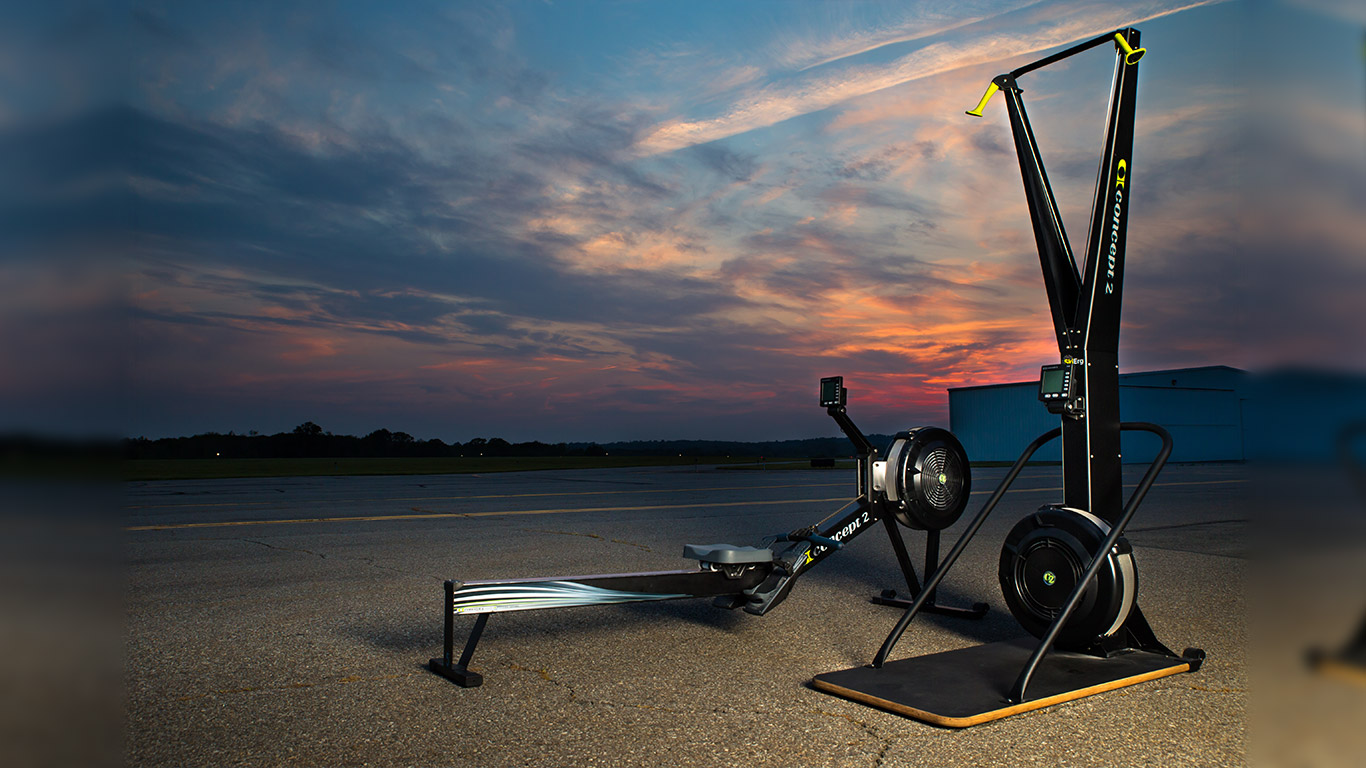
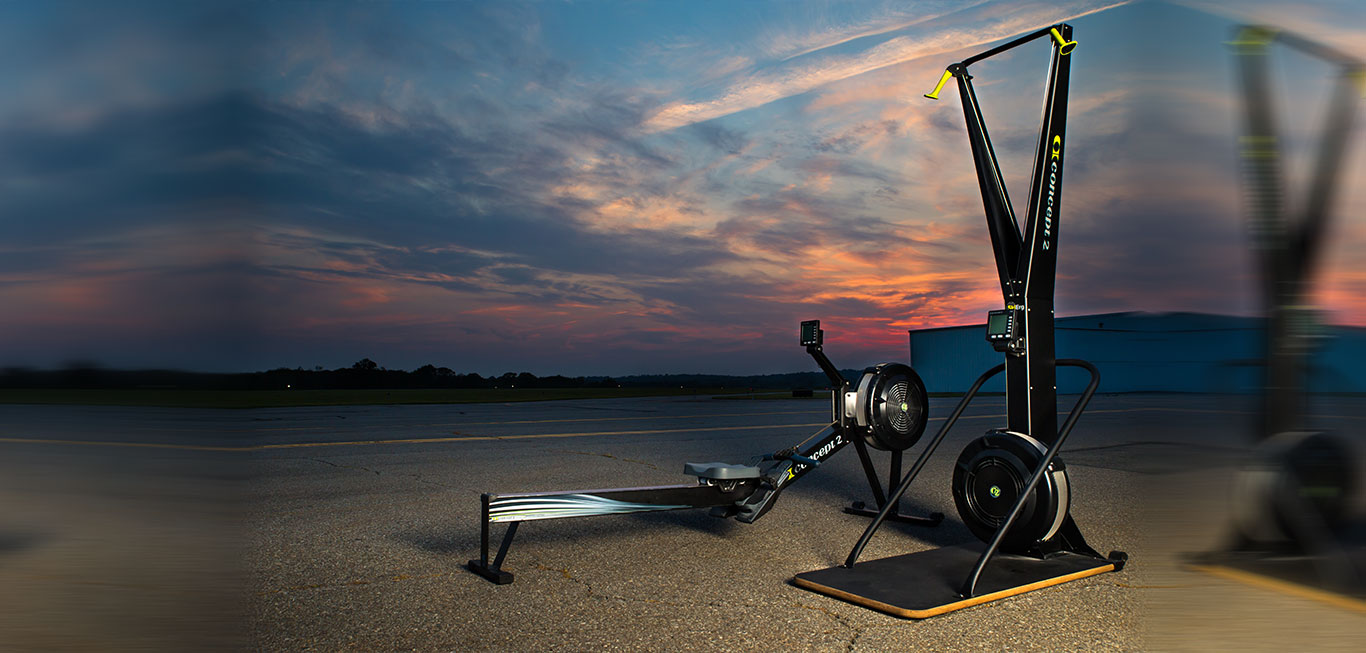
reformulando página produtos

diff --git a/app/templates/produtos.html b/app/templates/produtos.html
@@ -1,6 +1,7 @@
 <div class="container">
     <div class="row">
-        <div class="col-md-9 lista-caixa destaque-caixa">
+        <div class="col-md-9 ">
+            <div class="col-md-2">
                 <nav class="menu-produtos">
                 <ul class="nav nav-pills nav-stacked ">
                     <li class="menu remo"><a>REMO INDOOR</a></li>
@@ -16,25 +17,26 @@
                     <li class="menu"><a href="#">OUTROS</a></li>
                 </ul>
                 </nav>
-
+            </div>
+            <div class="col-md-7">
                     <img src="../static/img/produtos/modelod.jpg">
-
+            </div>
         </div>
-        <div class="col-md-3 lista-caixa skierg-caixa">
+        <div class="col-md-3 ">
 
                     <img  src="static/img/produtos/skierg.jpg">
 
         </div>
-        <div class="col-md-4 lista-caixa remos-caixa ">
+        <div class="col-md-4">
 
                     <img  src="../static/img/produtos/remos.jpg">
 
         </div>
-        <div class="col-md-5 lista-caixa modeloe-caixa">
+        <div class="col-md-5 ">
                     <img src="../static/img/produtos/modeloe.jpg">
 
         </div>
-        <div class="col-md-3 lista-caixa outros-caixa">
+        <div class="col-md-3 ">
 
                     <img  src="../static/img/produtos/outros.jpg">
 

diff --git a/app/static/css/app.css b/app/static/css/app.css
@@ -10057,7 +10057,7 @@ button.close {
   }
 }
 body {
-  background: linear-gradient(#1e71a3, #0f3d5e);
+  background: radial-gradient(#0f3d5e, #011121);
 }
 
 .col-left {
@@ -10135,6 +10135,7 @@ header .navegacao .form-busca i {
 
 .pagina-home .slide-home {
   margin-top: -20px;
+  width: 100%;
 }
 .pagina-home .slideshow {
   overflow: hidden;
@@ -10167,7 +10168,6 @@ header .navegacao .form-busca i {
   background-color: rgba(3, 12, 21, 0.6);
 }
 .pagina-produtos .menu-produtos .menu {
-  text-align: center;
   color: white;
   margin-top: 0;
 }
@@ -10187,25 +10187,6 @@ header .navegacao .form-busca i {
 }
 .pagina-produtos .menu-produtos .nav-pills > li > a {
   border-radius: 0;
-}
-.pagina-produtos .destaque-caixa img {
-  margin-left: 162px;
-  width: 699px;
-}
-.pagina-produtos .skierg-caixa img {
-  margin-left: -15px;
-}
-.pagina-produtos .remos-caixa img {
-  margin-left: -17px;
-  width: 383px;
-}
-.pagina-produtos .modeloe-caixa img {
-  margin-left: -17px;
-  width: 487px;
-}
-.pagina-produtos .outros-caixa img {
-  margin-left: -15px;
-  width: 283px;
 }
 
 .pagina-eventos .lista-caixa {

diff --git a/sass/_produtos.scss b/sass/_produtos.scss
@@ -6,7 +6,6 @@
     position: absolute;
     background-color: rgba(3, 12, 21, 0.6);
     .menu{
-        text-align: center;
         color: white;
         margin-top: 0;
     }
@@ -30,39 +29,5 @@
     }
     .nav-pills > li > a {
         border-radius: 0
-    }
-}
-
-.destaque-caixa {
-    img {
-        margin-left: 162px;
-        width: 699px;
-    }
-}
-
-.skierg-caixa {
-    img {
-        margin-left: -15px;
-    }
-}
-
-.remos-caixa {
-    img {
-        margin-left: -17px;
-        width: 383px;
-    }
-}
-
-.modeloe-caixa {
-    img {
-        margin-left: -17px;
-        width: 487px;
-    }
-}
-
-.outros-caixa {
-    img {
-        margin-left: -15px;
-        width: 283px;
     }
 }

diff --git a/app/templates/home.html b/app/templates/home.html
@@ -1,6 +1,5 @@
 <div class="container slide-home">
     <div class="row">
-        <div class="col-md-12 slideshow">
             <div>
                 <div id="slide" class="carousel slide" data-ride="carousel">
                     <ol class="carousel-indicators">
@@ -24,4 +23,3 @@
             </div>
         </div>
     </div>
-</div>

diff --git a/sass/app.scss b/sass/app.scss
@@ -8,7 +8,7 @@ $imageUrl: "/static/img/";
 
 
 body {
- background: linear-gradient(#1e71a3, #0f3d5e);
+ background: radial-gradient(#0f3d5e, #011121);
 }
 
 .col-left {

diff --git a/sass/_home.scss b/sass/_home.scss
@@ -1,6 +1,8 @@
 .slide-home {
     margin-top: -20px;
+    width: 100%;
 }
+
 
 .slideshow {
     overflow: hidden;
